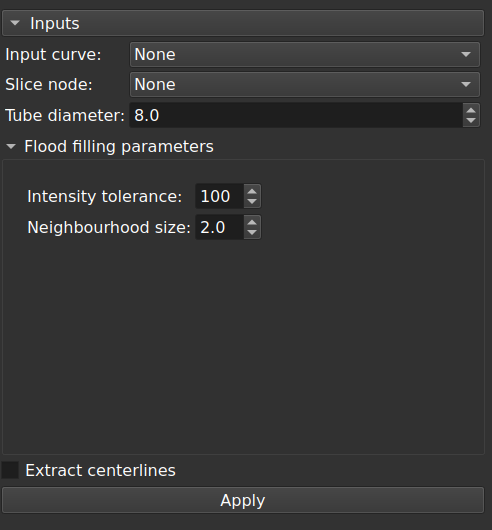
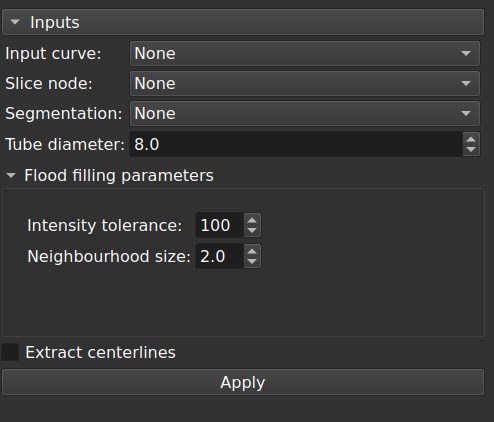
Make output nodes reusable
A unique output segmentation now persists across runs.
A segmentation node is generated if needed, or an arbitrary one may be
specified.

Each input curve gets a sort of 'isolation' role :

- reference output centerlines and endpoints
- save the last input parameter values
- restore them when selected again
- control a segment ID
- control centerlines names

diff --git a/CurveCenterlineExtraction/CurveCenterlineExtraction.py b/CurveCenterlineExtraction/CurveCenterlineExtraction.py
@@ -123,6 +123,12 @@ class CurveCenterlineExtractionWidget(ScriptedLoadableModuleWidget, VTKObservati
         self.logic.setInputCurveNode(None)
         return
     self.logic.setInputCurveNode(node)
+    # Update UI with previous referenced segmentation. May be changed before logic.process().
+    referencedSegmentationNode = node.GetNodeReference("OutputSegmentation")
+    if referencedSegmentationNode:
+        self.ui.outputSegmentationSelector.setCurrentNode(referencedSegmentationNode)
+    # Reuse last known parameters
+    self.updateGUIParametersFromInputNode()
   
   def onSliceNode(self, node):
     if node is None:
@@ -239,6 +245,10 @@ class CurveCenterlineExtractionWidget(ScriptedLoadableModuleWidget, VTKObservati
 
     self._parameterNode.EndModify(wasModified)
 
+  """
+  Let each one trace last used parameter values and output nodes.
+  These can be restored when an input curve is selected again.
+  """
   def UpdateInputNodeWithThisOutputNode(self, outputNode, referenceID):
     outputNodeID = ""
     if outputNode:
@@ -254,19 +264,40 @@ class CurveCenterlineExtractionWidget(ScriptedLoadableModuleWidget, VTKObservati
     self.UpdateInputNodeWithThisOutputNode(self.logic.outputCenterlineModel, "OutputCenterlineModel")
     self.UpdateInputNodeWithThisOutputNode(self.logic.outputCenterlineCurve, "OutputCenterlineCurve")
     self.logic.inputCurveNode.EndModify(wasModified)
-    
+
+  def UpdateInputNodeWithParameters(self):
+    if not self.logic.inputCurveNode:
+        return
+    wasModified = self.logic.inputCurveNode.StartModify()
+    self.logic.inputCurveNode.SetAttribute("TubeDiameter", str(self.ui.tubeDiameterSpinBox.value))
+    self.logic.inputCurveNode.SetAttribute("InputIntensityTolerance", str(self.ui.intensityToleranceSpinBox.value))
+    self.logic.inputCurveNode.SetAttribute("NeighbourhoodSize", str(self.ui.neighbourhoodSizeDoubleSpinBox.value))
+    self.logic.inputCurveNode.EndModify(wasModified)
+
+  # Restore parameters from input curve
+  def updateGUIParametersFromInputNode(self):
+    if not self.logic.inputCurveNode:
+        return
+    tubeDiameter = self.logic.inputCurveNode.GetAttribute("TubeDiameter")
+    if tubeDiameter:
+        self.ui.tubeDiameterSpinBox.value = float(tubeDiameter)
+    intensityTolerance = self.logic.inputCurveNode.GetAttribute("InputIntensityTolerance")
+    if intensityTolerance:
+        self.ui.intensityToleranceSpinBox.value = int(intensityTolerance)
+    neighbourhoodSize = self.logic.inputCurveNode.GetAttribute("NeighbourhoodSize")
+    if neighbourhoodSize:
+        self.ui.neighbourhoodSizeDoubleSpinBox.value = float(neighbourhoodSize)
+
+  # Restore output nodes in logic
   def UpdateLogicWithOutputNodes(self):
     if not self.logic.inputCurveNode:
         return
     self.logic.outputFiducialNode = self.logic.inputCurveNode.GetNodeReference("OutputFiducialNode")
-    self.logic.outputSegmentation = self.logic.inputCurveNode.GetNodeReference("OutputSegmentation")
+    # Here we use a segmentation specified in UI, not the one referenced in the input fiducial.
+    self.logic.outputSegmentation = self.ui.outputSegmentationSelector.currentNode()
     self.logic.outputCenterlineModel = self.logic.inputCurveNode.GetNodeReference("OutputCenterlineModel")
     self.logic.outputCenterlineCurve = self.logic.inputCurveNode.GetNodeReference("OutputCenterlineCurve")
 
-  def removeOutputNodes(self):
-    self.logic.removeOutputNodes()
-    self.UpdateInputNodeWithOutputNodes()
-    
   def onApplyButton(self):
     """
     Run processing when user clicks "Apply" button.
@@ -288,19 +319,42 @@ class CurveCenterlineExtractionWidget(ScriptedLoadableModuleWidget, VTKObservati
         if volumeNode is None:
             self.inform("No volume node selected in input slice node.")
             return
-        # Restore logic output objects with saved ones. They will be replaced.
+        # Restore logic output objects with referenced ones.
         self.UpdateLogicWithOutputNodes()
         # Compute output
         self.logic.process()
         # Update parameter node with references to new output nodes.
         self.UpdateInputNodeWithOutputNodes()
+        # Update input node with input parameters.
+        self.UpdateInputNodeWithParameters()
+        # Update segmentation selector if it was none
+        self.ui.outputSegmentationSelector.setCurrentNode(self.logic.outputSegmentation)
 
     except Exception as e:
       slicer.util.errorDisplay("Failed to compute results: "+str(e))
       import traceback
       traceback.print_exc()
 
-
+  # Handy during development
+  def removeOutputNodes(self):
+    inputCurveNode = self.ui.inputCurveSelector.currentNode()
+    if not inputCurveNode:
+        return
+    slicer.mrmlScene.RemoveNode(inputCurveNode.GetNodeReference("OutputFiducialNode"))
+    slicer.mrmlScene.RemoveNode(inputCurveNode.GetNodeReference("OutputCenterlineModel"))
+    slicer.mrmlScene.RemoveNode(inputCurveNode.GetNodeReference("OutputCenterlineCurve"))
+    self.logic.outputCurveNode = None
+    self.logic.outputCenterlineModel = None
+    self.logic.outputCenterlineCurve = None
+    
+    # Remove segment, ID is controlled.
+    segmentation = inputCurveNode.GetNodeReference("OutputSegmentation")
+    segmentID = "Segment_" + inputCurveNode.GetID()
+    segment = segmentation.GetSegmentation().GetSegment(segmentID)
+    if segment:
+        segmentation.GetSegmentation().RemoveSegment(segment)
+    # Remove node references to centerlines and enpoint fiducial
+    self.UpdateInputNodeWithOutputNodes()
 #
 # CurveCenterlineExtractionLogic
 #
@@ -358,30 +412,6 @@ class CurveCenterlineExtractionLogic(ScriptedLoadableModuleLogic):
   def setExtractCenterlines(self, value):
     self.extractCenterlines = value
 
-  def removeOutputNodes(self):
-    # https://discourse.slicer.org/t/how-to-collapse-a-folder-by-code/20082
-    # Get segmentation ID and it's parent folder in subject hierarchy.
-    shNode = slicer.vtkMRMLSubjectHierarchyNode.GetSubjectHierarchyNode(slicer.mrmlScene)
-    segmentationItemID = shNode.GetItemByDataNode(self.outputSegmentation)
-    parentID = shNode.GetItemParent(segmentationItemID)
-    
-    slicer.mrmlScene.RemoveNode(self.outputFiducialNode)
-    slicer.mrmlScene.RemoveNode(self.outputSegmentation)
-    slicer.mrmlScene.RemoveNode(self.outputCenterlineModel)
-    slicer.mrmlScene.RemoveNode(self.outputCenterlineCurve)
-    self.outputFiducialNode = None
-    self.outputSegmentation = None
-    self.outputCenterlineModel = None
-    self.outputCenterlineCurve = None
-    
-    """
-    Remove folder containing removed segmentation. This folder is created by 'Split volume', and it appropriates itself the Segmentation node.
-    However, after smoothing, the segmentation subject hierarchy item is reparented to the study item, and is no longer a child of the folder item. Avoid removing the study. There will be left over folders, and it's not possible to identify them reliably.
-    """
-    if shNode.GetItemLevel(parentID) == "Folder":
-        if shNode.GetNumberOfItemChildren(parentID) == 0:
-            shNode.RemoveItem(parentID)
-
   def setDefaultParameters(self, parameterNode):
     """
     Initialize parameter node with default settings.
@@ -411,9 +441,6 @@ class CurveCenterlineExtractionLogic(ScriptedLoadableModuleLogic):
     startTime = time.time()
     logging.info('Processing started')
     
-    # Don't stack many segmentations. Environment may quickly become confusing. Work with only one segmentation.
-    self.removeOutputNodes()
-    
     slicer.util.showStatusMessage("Segment editor setup")
     slicer.app.processEvents()
     """
@@ -425,9 +452,14 @@ class CurveCenterlineExtractionLogic(ScriptedLoadableModuleLogic):
         self.segmentEditorWidgets = SegmentEditorWidgets()
         self.segmentEditorWidgets.findWidgets()
 
-    # Create a new segmentation. It will contain only one segment.
-    segmentation=slicer.mrmlScene.AddNewNodeByClass("vtkMRMLSegmentationNode")
-    self.outputSegmentation = segmentation
+    # Create a new segmentation if none is specified.
+    if not self.outputSegmentation:
+        segmentation=slicer.mrmlScene.AddNewNodeByClass("vtkMRMLSegmentationNode")
+        self.outputSegmentation = segmentation
+    else:
+        # Prefer a local reference for readability
+        segmentation = self.outputSegmentation
+
     # Local direct reference to slicer.modules.SegmentEditorWidget.editor
     seWidgetEditor=self.segmentEditorWidgets.widgetEditor
 
@@ -462,7 +494,7 @@ class CurveCenterlineExtractionLogic(ScriptedLoadableModuleLogic):
     tube.SetNumberOfSides(30)
     tube.CappingOn()
     tube.Update()
-    segmentation.AddSegmentFromClosedSurfaceRepresentation(tube.GetOutput(), "tempTube")
+    segmentation.AddSegmentFromClosedSurfaceRepresentation(tube.GetOutput(), "TubeMask")
     
     #---------------------- Split volume ---------------------
     slicer.util.showStatusMessage("Split volume")
@@ -480,16 +512,47 @@ class CurveCenterlineExtractionLogic(ScriptedLoadableModuleLogic):
     allScalarVolumeNodes = slicer.mrmlScene.GetNodesByClass("vtkMRMLScalarVolumeNode")
     outputSplitVolumeNode = allScalarVolumeNodes.GetItemAsObject(allScalarVolumeNodes.GetNumberOfItems() - 1)
     # Remove no longer needed drawn tube segment
-    segment = segmentation.GetSegmentation().GetSegment("tempTube")
+    segment = segmentation.GetSegmentation().GetSegment("TubeMask")
     segmentation.GetSegmentation().RemoveSegment(segment)
     # Replace master volume of segmentation
     seWidgetEditor.setMasterVolumeNode(outputSplitVolumeNode)
     segmentation.SetReferenceImageGeometryParameterFromVolumeNode(outputSplitVolumeNode)
     
+    #---------------------- Workaround ------------------------
+    # See below
+    shNode = slicer.vtkMRMLSubjectHierarchyNode.GetSubjectHierarchyNode(slicer.mrmlScene)
+    shSplitVolumeId = shNode.GetItemByDataNode(outputSplitVolumeNode)
+    shSplitVolumeParentId = shNode.GetItemParent(shSplitVolumeId)
+    shSegmentationId = shNode.GetItemByDataNode(segmentation)
+    shSceneId = shNode.GetSceneItemID()
+    
+    #---------------------- Manage segment --------------------
+    # Remove a segment node and keep its color
+    segment = None
+    segmentColor = []
+    """
+    Control the segment ID.
+    It will be the same in all segmentations.
+    We can reach it precisely.
+    """
+    segmentID = "Segment_" + self.inputCurveNode.GetID()
+    segment = segmentation.GetSegmentation().GetSegment(segmentID)
+    if segment:
+        segmentColor = segment.GetColor()
+        segmentation.GetSegmentation().RemoveSegment(segment)
+    
+    # Add a new segment, with controlled ID and known color.
+    object = segmentation.GetSegmentation().AddEmptySegment(segmentID)
+    segment = segmentation.GetSegmentation().GetSegment(object)
+    # Visually identify the segment by the input fiducial name
+    segmentName = "Segment_" + self.inputCurveNode.GetName()
+    segment.SetName(segmentName)
+    if len(segmentColor):
+        segment.SetColor(segmentColor)
+    # Select new segment
+    seWidgetEditor.setCurrentSegmentID(segmentID)
+    
     #---------------------- Flood filling ---------------------
-    # Add a new segment : from splt volume segment
-    newSegmentQPushButton = self.segmentEditorWidgets.newSegmentQPushButton
-    newSegmentQPushButton.click()
     # Set parameters
     seWidgetEditor.setActiveEffectByName("Flood filling")
     ffEffect = seWidgetEditor.activeEffect()
@@ -524,8 +587,38 @@ class CurveCenterlineExtractionLogic(ScriptedLoadableModuleLogic):
     # Replace master volume of segmentation
     seWidgetEditor.setMasterVolumeNode(volumeNode)
     segmentation.SetReferenceImageGeometryParameterFromVolumeNode(volumeNode)
-    # Remove no longer needed split volume
+    # Remove no longer needed split volume.
     slicer.mrmlScene.RemoveNode(outputSplitVolumeNode)
+    """
+    WORKAROUND : remove stray nodes
+    - "$VOLUME_NAME split" : a folder created by 'Split volume'
+    - "$VOLUME_NAME Segment_$CURVENAME{_$INDEX}" : don't know where it comes
+    from. It appears on second run and next, with same input curve in same
+    segmentation. The segmentation item is a child of that folder.
+    It becomes really messy. We remove them with thorough checking.
+    """
+    # First, reparent the segmentation item to scene item.
+    shNode.SetItemParent(shSegmentationId, shSceneId)
+    # Remove an empty folder directly
+    if shNode.GetNumberOfItemChildren(shSplitVolumeParentId) == 0:
+        if shNode.GetItemLevel(shSplitVolumeParentId) == "Folder":
+            shNode.RemoveItem(shSplitVolumeParentId)
+    else:
+        """
+        Iterate through each child item of the folder. Each one must be scalar
+        volume node (observational).
+        Flag for removal if there are only scalar volume nodes.
+        """
+        canRemove = True
+        for i in range(shNode.GetNumberOfItemChildren(shSplitVolumeParentId)):
+            shWeirdId = shNode.GetItemByPositionUnderParent(shSplitVolumeParentId, i)
+            weirdNode = shNode.GetItemDataNode(shWeirdId)
+            if not weirdNode.IsA("vtkMRMLScalarVolumeNode"):
+                canRemove = False
+                break
+        if canRemove:
+            if shNode.GetItemLevel(shSplitVolumeParentId) == "Folder":
+                shNode.RemoveItem(shSplitVolumeParentId)
     
     if not self.extractCenterlines:
         stopTime = time.time()
@@ -543,6 +636,7 @@ class CurveCenterlineExtractionLogic(ScriptedLoadableModuleLogic):
         self.extractCenterlineWidgets.findWidgets()
     
     inputSurfaceComboBox = self.extractCenterlineWidgets.inputSurfaceComboBox
+    inputSegmentSelectorWidget = self.extractCenterlineWidgets.inputSegmentSelectorWidget
     endPointsMarkupsSelector = self.extractCenterlineWidgets.endPointsMarkupsSelector
     outputCenterlineModelSelector = self.extractCenterlineWidgets.outputCenterlineModelSelector
     outputCenterlineCurveSelector = self.extractCenterlineWidgets.outputCenterlineCurveSelector
@@ -551,23 +645,37 @@ class CurveCenterlineExtractionLogic(ScriptedLoadableModuleLogic):
     
     # Set input segmentation
     inputSurfaceComboBox.setCurrentNode(segmentation)
-    # Create 2 fiducial endpoints, at start and end of input curve. We call it output because it is not user input. It is replaced on successive runs.
-    self.outputFiducialNode = slicer.mrmlScene.AddNewNodeByClass("vtkMRMLMarkupsFiducialNode")
-    firstInputCurveControlPoint = self.inputCurveNode.GetNthControlPointPositionVector(0)
-    self.outputFiducialNode.AddControlPointWorld(firstInputCurveControlPoint)
-    endPointsMarkupsSelector.setCurrentNode(self.outputFiducialNode)
-    lastInputCurveControlPoint = self.inputCurveNode.GetNthControlPointPositionVector(curveControlPoints.GetNumberOfPoints() - 1)
-    self.outputFiducialNode.AddControlPointWorld(lastInputCurveControlPoint)
-    endPointsMarkupsSelector.setCurrentNode(self.outputFiducialNode)
+    inputSegmentSelectorWidget.setCurrentSegmentID(segmentID)
+    # Create 2 fiducial endpoints, at start and end of input curve. We call it output because it is not user input.
+    outputFiducialNode = self.outputFiducialNode
+    if not outputFiducialNode:
+        outputFiducialNode = slicer.mrmlScene.AddNewNodeByClass("vtkMRMLMarkupsFiducialNode")
+        # Visually identify the segment by the input fiducial name
+        outputFiducialNode.SetName("Endpoints_" + self.inputCurveNode.GetName())
+        firstInputCurveControlPoint = self.inputCurveNode.GetNthControlPointPositionVector(0)
+        outputFiducialNode.AddControlPointWorld(firstInputCurveControlPoint)
+        endPointsMarkupsSelector.setCurrentNode(outputFiducialNode)
+        lastInputCurveControlPoint = self.inputCurveNode.GetNthControlPointPositionVector(curveControlPoints.GetNumberOfPoints() - 1)
+        outputFiducialNode.AddControlPointWorld(lastInputCurveControlPoint)
+        endPointsMarkupsSelector.setCurrentNode(outputFiducialNode)
+        self.outputFiducialNode = outputFiducialNode
     
-    # Output centerline model
-    centerlineModel = slicer.mrmlScene.AddNewNodeByClass("vtkMRMLModelNode")
+    # Output centerline model. A single node throughout.
+    centerlineModel = self.outputCenterlineModel
+    if not centerlineModel:
+        centerlineModel = slicer.mrmlScene.AddNewNodeByClass("vtkMRMLModelNode")
+        # Visually identify the segment by the input fiducial name
+        centerlineModel.SetName("Centerline_model_" + self.inputCurveNode.GetName())
+        self.outputCenterlineModel = centerlineModel
     outputCenterlineModelSelector.setCurrentNode(centerlineModel)
-    self.outputCenterlineModel = centerlineModel
-    # Output centerline curve
-    centerlineCurve = slicer.mrmlScene.AddNewNodeByClass("vtkMRMLMarkupsCurveNode")
+    # Output centerline curve. A single node throughout.
+    centerlineCurve = self.outputCenterlineCurve
+    if not centerlineCurve:
+        centerlineCurve = slicer.mrmlScene.AddNewNodeByClass("vtkMRMLMarkupsCurveNode")
+        # Visually identify the segment by the input fiducial name
+        centerlineCurve.SetName("Centerline_curve_" + self.inputCurveNode.GetName())
+        self.outputCenterlineCurve = centerlineCurve
     outputCenterlineCurveSelector.setCurrentNode(centerlineCurve)
-    self.outputCenterlineCurve = centerlineCurve
     """
     Don't preprocess input surface. Decimation error may crash Slicer. Quadric method for decimation is slower but more reliable.
     """
@@ -670,7 +778,7 @@ class ExtractCenterlineWidgets(ScriptedLoadableModule):
         self.applyButton = None
         self.inputSurfaceComboBox = None
         self.endPointsMarkupsSelector = None
-        self.inputSegmentSelectorWidget = None # Unused
+        self.inputSegmentSelectorWidget = None
         self.outputNetworkGroupBox = None
         self.outputTreeGroupBox = None
         self.outputCenterlineModelSelector = None

diff --git a/CurveCenterlineExtraction/README.md b/CurveCenterlineExtraction/README.md
@@ -18,6 +18,10 @@ At least 3 control points are required. All control points must lie in the contr
 
 The 'Flood filling' effect will be applied at each point in this slice view. The current offset will be changed consequently.
 
+**Output segmentation node**
+
+If no segmentation node is specified, one will be created, and it will persist across runs. An arbitrary segmentation node may also be provided. Segments will be added to the segmentation node, one for each input curve.
+
 **Input tube diameter**
 
 This value should be slightly greater than the maximum estimated diameter of the artery.
@@ -31,8 +35,6 @@ Please refer to the manual of '[Segment editor extra effects](https://github.com
 Check this to call the 'Extract centerline' module. It is optional by default because it make take much time, depending on the input surface. It is recommended to generate a segmentation first. Once it is considered reliable, generate a centerline model and a centerline curve as a last step.
 
 **Notes**
-
-On repeat run, all output nodes are removed from scene and replaced by new ones.
 
 If the centerlines are not extracted though the segmentation is good, interaction is required. Smoothing with ‘Fill holes’ at minimal kernel size helps to create centerlines (smoothing may be faster using the 3D brush). Afterwards, work should be continued directly in ‘Extract centerline’ module obviously.
 
